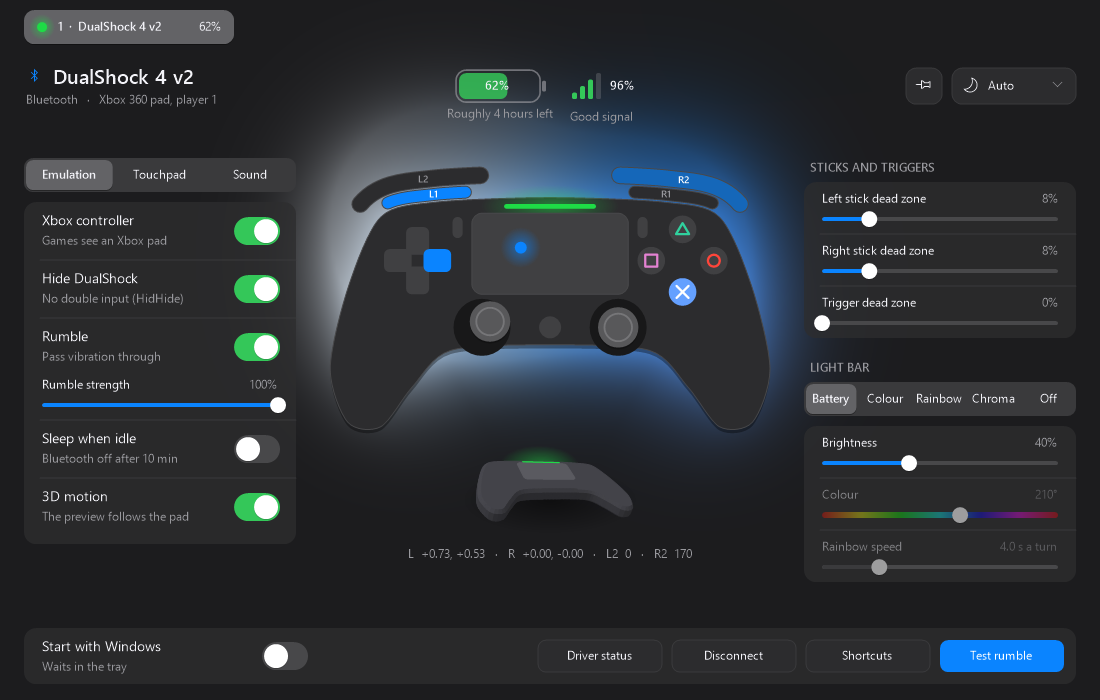
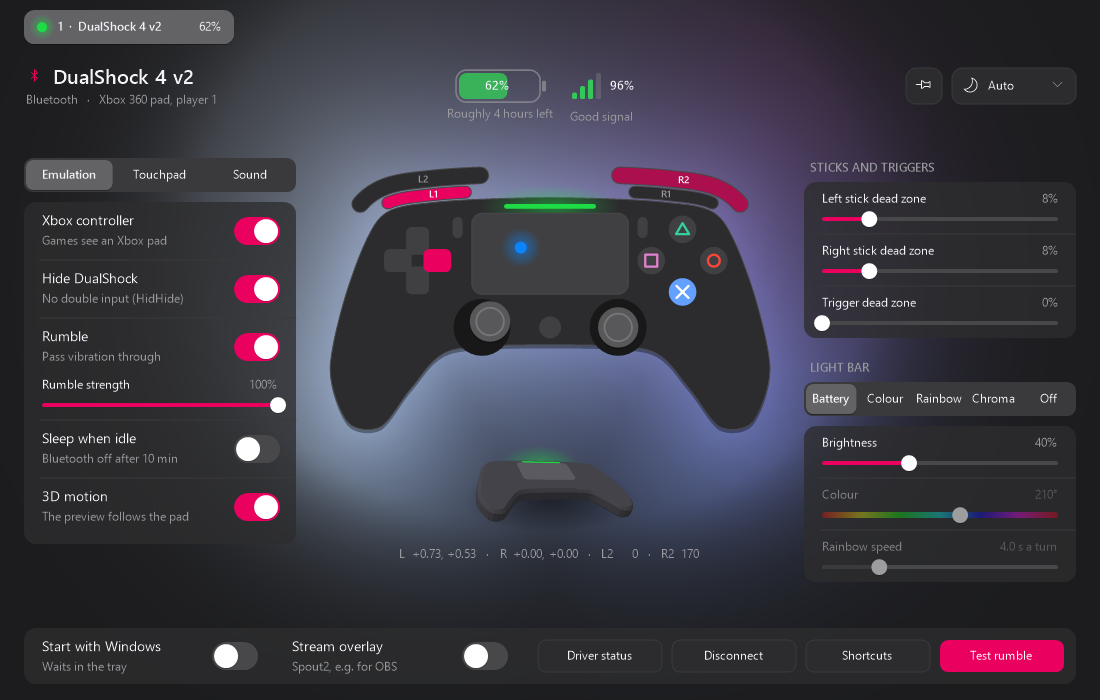
Version 1.2.1; README: stream overlay section with a screenshot
The stream overlay gets its own section in the README with a picture of the
transparent overlay; the window's new behaviour is listed; the main
screenshot is refreshed.

diff --git a/app/DS4Native.cpp b/app/DS4Native.cpp
@@ -62,7 +62,7 @@
                         "version='6.0.0.0' processorArchitecture='*' publicKeyToken='6595b64144ccf1df' language='*'\"")
 
 static const wchar_t kAppName[] = L"DS4-Native";
-static const wchar_t kVersion[] = L"1.2.0";
+static const wchar_t kVersion[] = L"1.2.1";
 static const wchar_t kRegKey[]  = L"Software\\DS4Native";
 static const wchar_t kRunKey[]  = L"Software\\Microsoft\\Windows\\CurrentVersion\\Run";
 static const UINT WM_TRAY     = WM_APP + 1;

diff --git a/README.md b/README.md
@@ -42,7 +42,13 @@ One C++ file, Win32 and GDI+, no .NET or other runtime.
   strength, so it shows the share of the controller's reports that actually arrive.
 - The window's taskbar button shows the selected controller's battery as its progress bar: green,
   yellow under 35 %, red under 15 %.
-- Light and dark themes (or follow Windows), always-on-top, start with Windows.
+- Switching a controller to an Xbox controller lights a green X that glows out from behind it.
+  The stick and trigger values under the controller stay put as they change, and the "Cross → A"
+  hints only show while it's actually an Xbox controller.
+- Switches, sliders and highlights take your Windows accent colour. Light and dark themes (or
+  follow Windows), always-on-top, start with Windows.
+- Repaints only what changes, at the rate it needs: nothing at all while the controller lies
+  still or the window is minimised.
 
 **Light bar**
 
@@ -100,12 +106,19 @@ One C++ file, Win32 and GDI+, no .NET or other runtime.
 - **Touchpad volume**: with the touchpad mouse off, the touchpad can be Windows' volume slider:
   slide right or up for louder, left or down for quieter (two fingers twice as fast), and press it
   to mute or unmute.
-- **Stream overlay**: the live controller preview, ambilight included, on a transparent
-  background as a [Spout2](https://spout.zeal.co/) source named "DS4-Native" (1440×1260, with room for the glow to fade out), for OBS
-  and other streaming or VJ software, at 60 fps. Turn on "Stream overlay" at the bottom of the window. It keeps
-  going with the window closed and shows the selected tab's controller. In OBS, install the free
-  [Spout2 plugin for OBS](https://github.com/Off-World-Live/obs-spout2-plugin), add a
-  "Spout2 Capture" source and pick DS4-Native.
+
+**Stream overlay (Spout2)**
+- The live controller preview, ambilight included, on a transparent background, as a
+  [Spout2](https://spout.zeal.co/) source named "DS4-Native" for OBS and other streaming or VJ
+  software: 1440×1260 at up to 60 fps, with room around the controller for its glow to fade out.
+- Turn on **Stream overlay** at the bottom of the window. It keeps going with the window closed and
+  shows the selected tab's controller.
+- In OBS, install the free [Spout2 plugin for OBS](https://github.com/Off-World-Live/obs-spout2-plugin),
+  add a **Spout2 Capture** source and pick DS4-Native.
+- Light on the CPU: a frame that would look the same as the last isn't drawn or sent, so a
+  controller lying still costs nothing.
+
+<p align="center"><img src="docs/overlay.png" width="560" alt="The stream overlay: the controller and its glow on a transparent background"></p>
 
 ## Install
 
